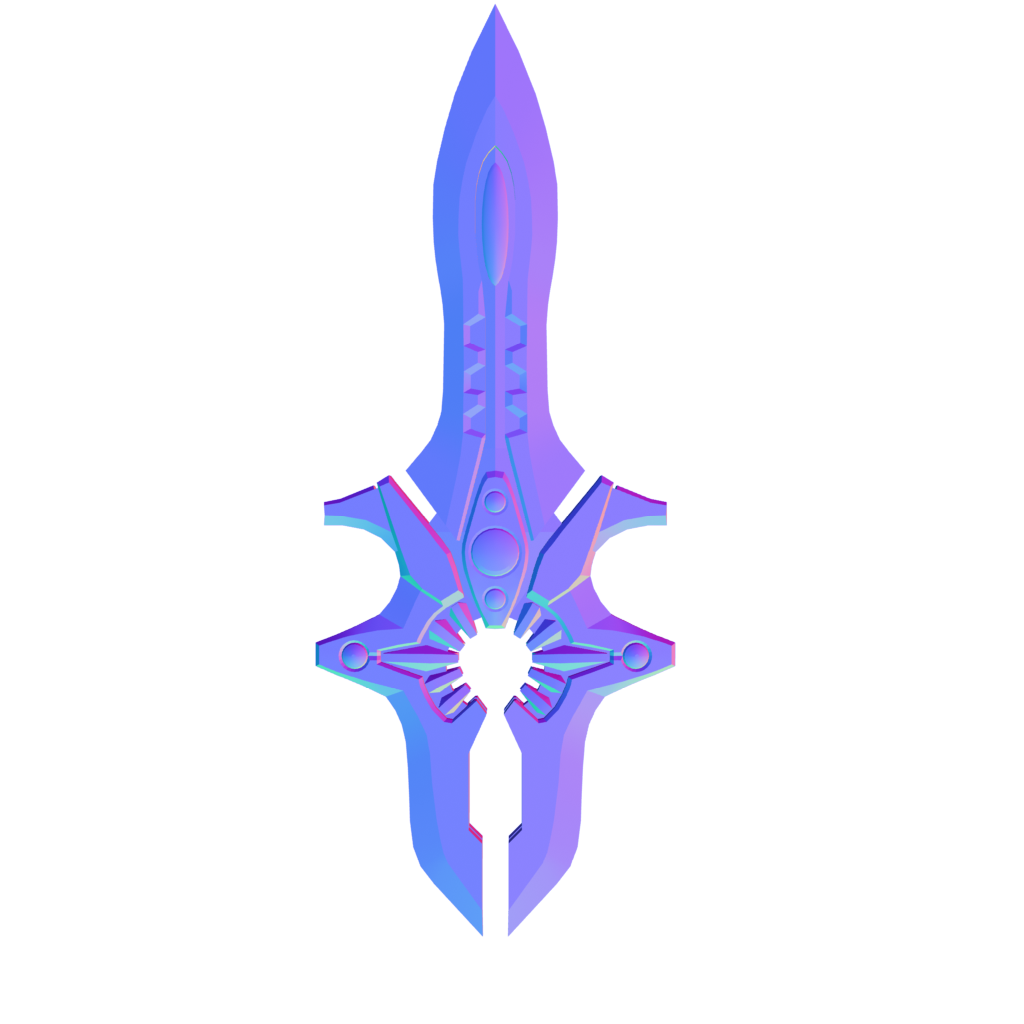
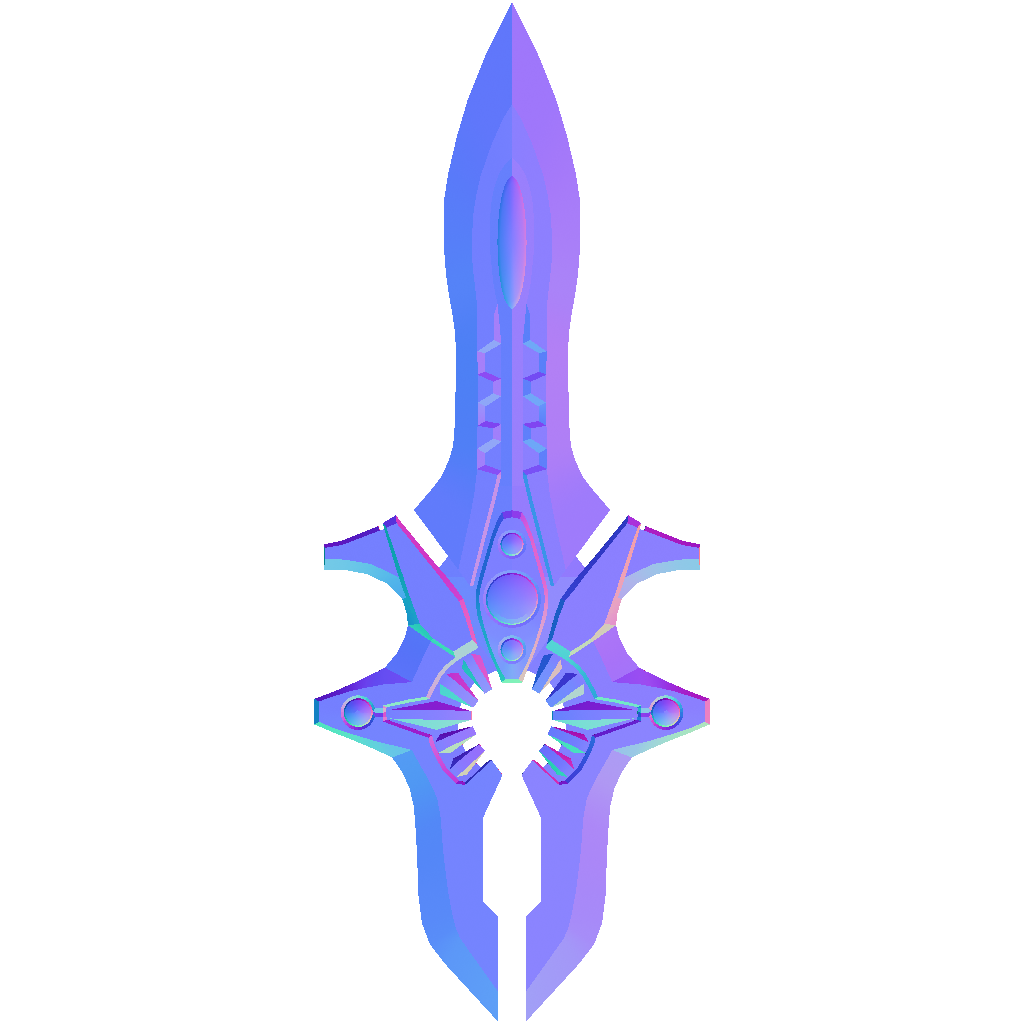
Pretty much working?

Changed region(s): [[0.2812, 0.0, 0.7188, 1.0]]

diff --git a/Image.mm b/Image.mm
@@ -14,7 +14,8 @@ Image::Image(const string& strFilename) :
 	m_refSourceImage(NULL),
 	m_width(0),
 	m_height(0),
-	m_pImageData(NULL)
+	m_pImageData(NULL),
+	m_colorSpace(NULL)
 {
 	CGDataProviderRef dataProvider = CGDataProviderCreateWithFilename(strFilename.c_str());
 	
@@ -26,23 +27,181 @@ Image::Image(const string& strFilename) :
 	m_height = CGImageGetHeight(m_refSourceImage);
 	cout << "Image is " << m_width << "px wide and " << m_height << "px high" << endl;
 	
-	m_pImageData = new byte[m_width * m_height * 4];
+	m_pImageData = new ImageData(m_width, m_height);
 	
-	CGColorSpaceRef colorSpace = CGImageGetColorSpace(m_refSourceImage);
+	m_colorSpace = CGImageGetColorSpace(m_refSourceImage);
 	
-	CGContextRef imageContext = CGBitmapContextCreate(m_pImageData, m_width, m_height, 8, m_width * 4, colorSpace, kCGImageAlphaPremultipliedLast | kCGBitmapByteOrder32Big);
-	CGColorSpaceRelease(colorSpace);
+	CGContextRef imageContext = CGBitmapContextCreate(m_pImageData->GetBufferPtr(), m_width, m_height, 8, m_width * 4, m_colorSpace, kCGImageAlphaPremultipliedLast | kCGBitmapByteOrder32Big);
 
 	CGContextDrawImage(imageContext, CGRectMake(0, 0, m_width, m_height), m_refSourceImage);
+	
 	CGContextRelease(imageContext);
 }
 
 Image::~Image()
 {
 	CGImageRelease(m_refSourceImage);
-	delete[] m_pImageData;
+	CGColorSpaceRelease(m_colorSpace);
+	delete m_pImageData;
 }
 
-void Image::Process()
+void Image::Process() const
 {
+	ImageData output(m_width, m_height);
+	
+	for (int y(0); y < m_height; ++y) {
+		for (int x(0); x < m_width; ++x) {
+			output.Pixel(x, y) = CalculateOutput(x, y);
+		}
+	}
+	
+	CGDataProviderRef dataProvider = CGDataProviderCreateWithData(NULL, output.GetBufferPtr(), output.GetBufferSize(), NULL);
+	CGImageRef image = CGImageCreate(m_width, m_height, 8, 32, m_width * 4, m_colorSpace, kCGImageAlphaPremultipliedLast, dataProvider, NULL, true, kCGRenderingIntentDefault);
+	CGDataProviderRelease(dataProvider);
+	
+	FSRef usersDesktop;
+	FSFindFolder(kUserDomain, kDesktopFolderType, false, &usersDesktop);
+	CFURLRef desktopURL = CFURLCreateFromFSRef(NULL, &usersDesktop);
+	CFURLRef destinationURL = CFURLCreateWithFileSystemPathRelativeToBase(NULL, CFSTR("fixed.png"), kCFURLPOSIXPathStyle, false, desktopURL);
+	CFRelease(desktopURL);
+	
+	CGImageDestinationRef exportDestination = CGImageDestinationCreateWithURL(destinationURL, kUTTypePNG, 1, NULL);
+	CGImageDestinationAddImage(exportDestination, image, NULL);
+	CGImageDestinationFinalize(exportDestination);
+
+	CFRelease(destinationURL);
+	CGImageRelease(image);
+}	
+
+ImagePixel Image::CalculateOutput(const int x, const int y) const
+{
+	ImagePixel output(m_pImageData->Pixel(x, y));
+	if (output.a == 0) {
+		output.a = 255;
+			// find all neighboring non-transparent pixels
+		list<pair<ImagePixel, float> > blendWith = FindClosest(x, y);
+		float fCount = blendWith.size();
+		
+		float fTotalDistance(0.0);
+		float fMaximumDistance(0.0);
+		for (list<pair<ImagePixel, float> >::iterator it(blendWith.begin());
+			 it != blendWith.end(); ++it) {
+			fTotalDistance += it->second;
+			fMaximumDistance = max(fMaximumDistance, it->second);
+		}
+		float fAverageDistance(fTotalDistance/fCount);
+
+			
+		double dR(0.0);
+		double dG(0.0);
+		double dB(0.0);
+		float fTotalWeight(0.0);
+		for (list<pair<ImagePixel, float> >::iterator it(blendWith.begin());
+			 it != blendWith.end(); ++it) {
+			float fDistance(it->second);
+			float fWeight = fAverageDistance / fDistance;
+				//			fWeight = 1.0;
+				// accumulate as though range was -1 to 1, * weight
+			fTotalWeight += fWeight;
+			dR += (((it->first.r / 255.0) * 2.0) - 1.0) * fWeight;
+			dG += (((it->first.g / 255.0) * 2.0) - 1.0) * fWeight;
+			dB += (((it->first.b / 255.0) * 2.0) - 1.0) * fWeight;
+		}
+		
+		if (fCount > 0.0) {
+			output.r = max(min(255.0, 128 + (dR * 128.0) / fTotalWeight), 0.0);
+			output.g = max(min(255.0, 128 + (dG * 128.0) / fTotalWeight), 0.0);
+			output.b = max(min(255.0, 128 + (dB * 128.0) / fTotalWeight), 0.0);
+		} else {
+			output.r = 128;
+			output.g = 128;
+			output.b = 255;
+		}
+	}
+	return output;
+}
+
+list<pair<ImagePixel, float> > Image::FindClosest(const int x, const int y) const
+{
+	const byte AlphaThreshold = 250;
+	const int MaxCount = 3000;
+	const float DiagFactor = sqrt(2.0);
+	
+	list<pair<ImagePixel, float> > oReturn;
+
+		// left
+	for (int tx(x-1); tx >= max(0, x - MaxCount); --tx) {
+		ImagePixel& tPixel(m_pImageData->Pixel(tx, y));
+		if (tPixel.a > AlphaThreshold) {
+			oReturn.push_back(pair<ImagePixel, float>(tPixel, abs(x - tx) ));
+			break;
+		}
+	}
+		// right
+	for (int tx(x+1); tx < min(m_width, x + MaxCount); ++tx) {
+		ImagePixel& tPixel(m_pImageData->Pixel(tx, y));
+		if (tPixel.a > AlphaThreshold) {
+			oReturn.push_back(pair<ImagePixel, float>(tPixel, abs(x - tx) ));
+			break;
+		}
+	}
+	
+		// up
+	for (int ty(y-1); ty >= max(0, y - MaxCount); --ty) {
+		ImagePixel& tPixel(m_pImageData->Pixel(x, ty));
+		if (tPixel.a > AlphaThreshold) {
+			oReturn.push_back(pair<ImagePixel, float>(tPixel, abs(y - ty) ));
+			break;
+		}
+	}
+	
+		// down
+	for (int ty(y+1); ty < min(m_height, y + MaxCount); ++ty) {
+		ImagePixel& tPixel(m_pImageData->Pixel(x, ty));
+		if (tPixel.a > AlphaThreshold) {
+			oReturn.push_back(pair<ImagePixel, float>(tPixel, abs(y - ty) ));
+			break;
+		}
+	}
+	
+	int iCount;
+	int MaxDiag = MaxCount / DiagFactor;
+		// SE
+	iCount = min(min(m_width - x, m_height - y), MaxDiag);
+	for (int i(1); i < iCount; ++i) {
+		ImagePixel& tPixel(m_pImageData->Pixel(x + i, y + i));
+		if (tPixel.a > AlphaThreshold) {
+			oReturn.push_back(pair<ImagePixel, float>(tPixel, i * DiagFactor));
+			break;
+		}
+	}
+		// SW
+	iCount = min(min(x, m_height - y), MaxDiag);
+	for (int i(1); i < iCount; ++i) {
+		ImagePixel& tPixel(m_pImageData->Pixel(x - i, y + i));
+		if (tPixel.a > AlphaThreshold) {
+			oReturn.push_back(pair<ImagePixel, float>(tPixel, i * DiagFactor));
+			break;
+		}
+	}
+		// NE
+	iCount = min(min(m_width - x, y), MaxDiag);
+	for (int i(1); i < iCount; ++i) {
+		ImagePixel& tPixel(m_pImageData->Pixel(x + i, y - i));
+		if (tPixel.a > AlphaThreshold) {
+			oReturn.push_back(pair<ImagePixel, float>(tPixel, i * DiagFactor));
+			break;
+		}
+	}
+		// NW
+	iCount = min(min(x, y), MaxDiag);
+	for (int i(1); i < iCount; ++i) {
+		ImagePixel& tPixel(m_pImageData->Pixel(x - i, y - i));
+		if (tPixel.a > AlphaThreshold) {
+			oReturn.push_back(pair<ImagePixel, float>(tPixel, i * DiagFactor));
+			break;
+		}
+	}
+	
+	return oReturn;
 }

diff --git a/ImageData.mm b/ImageData.mm
@@ -1,0 +1,46 @@
+/*
+ *  ImageData.mm
+ *  PVRFix
+ *
+ *  Created by Rowan James on 10/06/10.
+ *  Copyright 2010 Rowan James. All rights reserved.
+ *
+ */
+
+#include "ImageData.h"
+
+ImageData::ImageData(int width, int height) :
+	m_width(width),
+	m_height(height),
+	m_pixels(NULL)
+{
+	m_pixels = new ImagePixel[width * height];
+}
+
+ImageData::~ImageData()
+{
+	delete[] m_pixels;
+}
+
+ImagePixel& ImageData::Pixel(int x, int y)
+{
+	return m_pixels[y * m_width + x];
+}
+
+const ImagePixel& ImageData::Pixel(int x, int y) const
+{
+	return m_pixels[y * m_width + x];
+}
+
+void* ImageData::GetBufferPtr()
+{
+	return m_pixels;
+}
+
+int ImageData::GetBufferSize() const
+{
+	if (m_pixels == NULL) {
+		return 0;
+	}
+	return m_width * m_height * 4;
+}

diff --git a/Image.h b/Image.h
@@ -9,22 +9,27 @@
 
 #import <ApplicationServices/ApplicationServices.h>
 
+#import "ImageData.h"
+
 class Image
 {
 public:
-	typedef unsigned char byte;
 	
 	Image(const string& strFilename);
 	virtual ~Image();
 	
-	void Process();
+	void Process() const;
 
 private:
+	ImagePixel CalculateOutput(const int x, const int y) const;
+	list<pair<ImagePixel, float> > FindClosest(const int x, const int y) const;
+	
 	string m_strFilename;
 	CGImageRef m_refSourceImage;
+	CGColorSpaceRef m_colorSpace;
 
 	int m_width;
 	int m_height;
 
-	byte* m_pImageData;
+	ImageData* m_pImageData;
 };

diff --git a/ImageData.h b/ImageData.h
@@ -1,0 +1,29 @@
+/*
+ *  ImageData.h
+ *  PVRFix
+ *
+ *  Created by Rowan James on 10/06/10.
+ *  Copyright 2010 Rowan James. All rights reserved.
+ *
+ */
+
+#import "ImagePixel.h"
+
+class ImageData
+{
+public:
+	ImageData(int iWidth, int iHeight);
+	virtual ~ImageData();
+	
+	ImagePixel& Pixel(int x, int y);
+	const ImagePixel& Pixel(int x, int y) const;
+	
+	void* GetBufferPtr();
+	int GetBufferSize() const;
+	
+protected:
+	int m_width;
+	int m_height;
+	
+	ImagePixel* m_pixels;
+};

diff --git a/ImagePixel.h b/ImagePixel.h
@@ -1,0 +1,22 @@
+/*
+ *  ImagePixel.h
+ *  PVRFix
+ *
+ *  Created by Rowan James on 10/06/10.
+ *  Copyright 2010 Rowan James. All rights reserved.
+ *
+ */
+
+typedef unsigned char byte;
+#pragma pack(push,1)
+class ImagePixel
+{
+public:
+	ImagePixel();
+	
+	byte r;
+	byte g;
+	byte b;
+	byte a;
+};
+#pragma pack(pop)

diff --git a/ImagePixel.mm b/ImagePixel.mm
@@ -1,0 +1,18 @@
+/*
+ *  ImagePixel.cpp
+ *  PVRFix
+ *
+ *  Created by Rowan James on 10/06/10.
+ *  Copyright 2010 Rowan James. All rights reserved.
+ *
+ */
+
+#include "ImagePixel.h"
+
+ImagePixel::ImagePixel() :
+	r(0),
+	g(0),
+	b(0),
+	a(0)
+{
+}

diff --git a/main.mm b/main.mm
@@ -17,6 +17,7 @@ int main (int argc, const char * argv[]) {
 	
 	cout << "Processing file: \"" << argv[1] << "\"" << endl;
 	Image oImg(argv[1]);
+	oImg.Process();
 
     return 0;
 }

diff --git a/PchApp.h b/PchApp.h
@@ -9,6 +9,8 @@
 
 #import <iostream>
 #import <string>
+#import <list>
+#import <utility>
 #import <Foundation/Foundation.h>
 #import <ApplicationServices/ApplicationServices.h>
 
